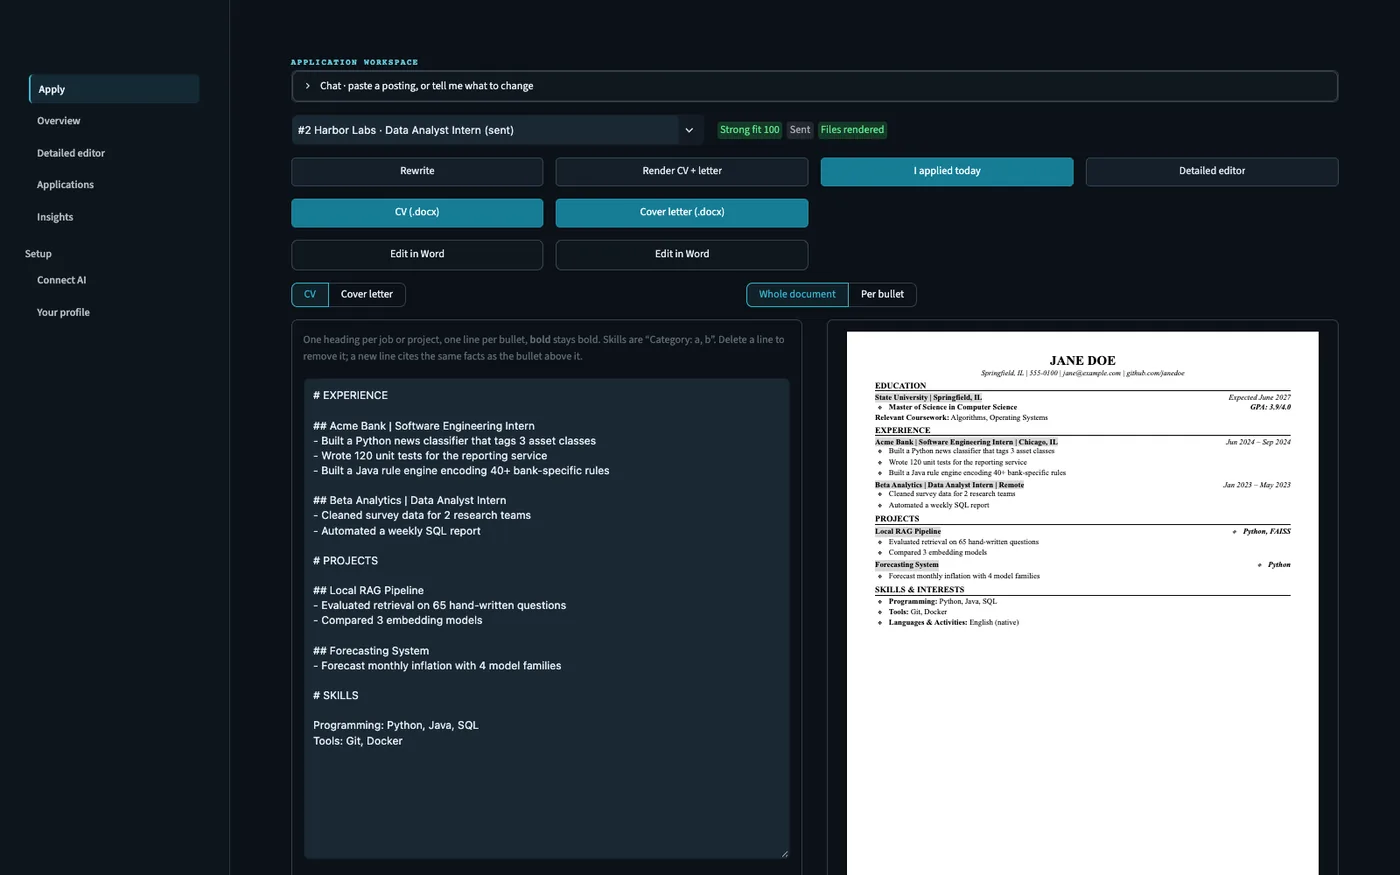
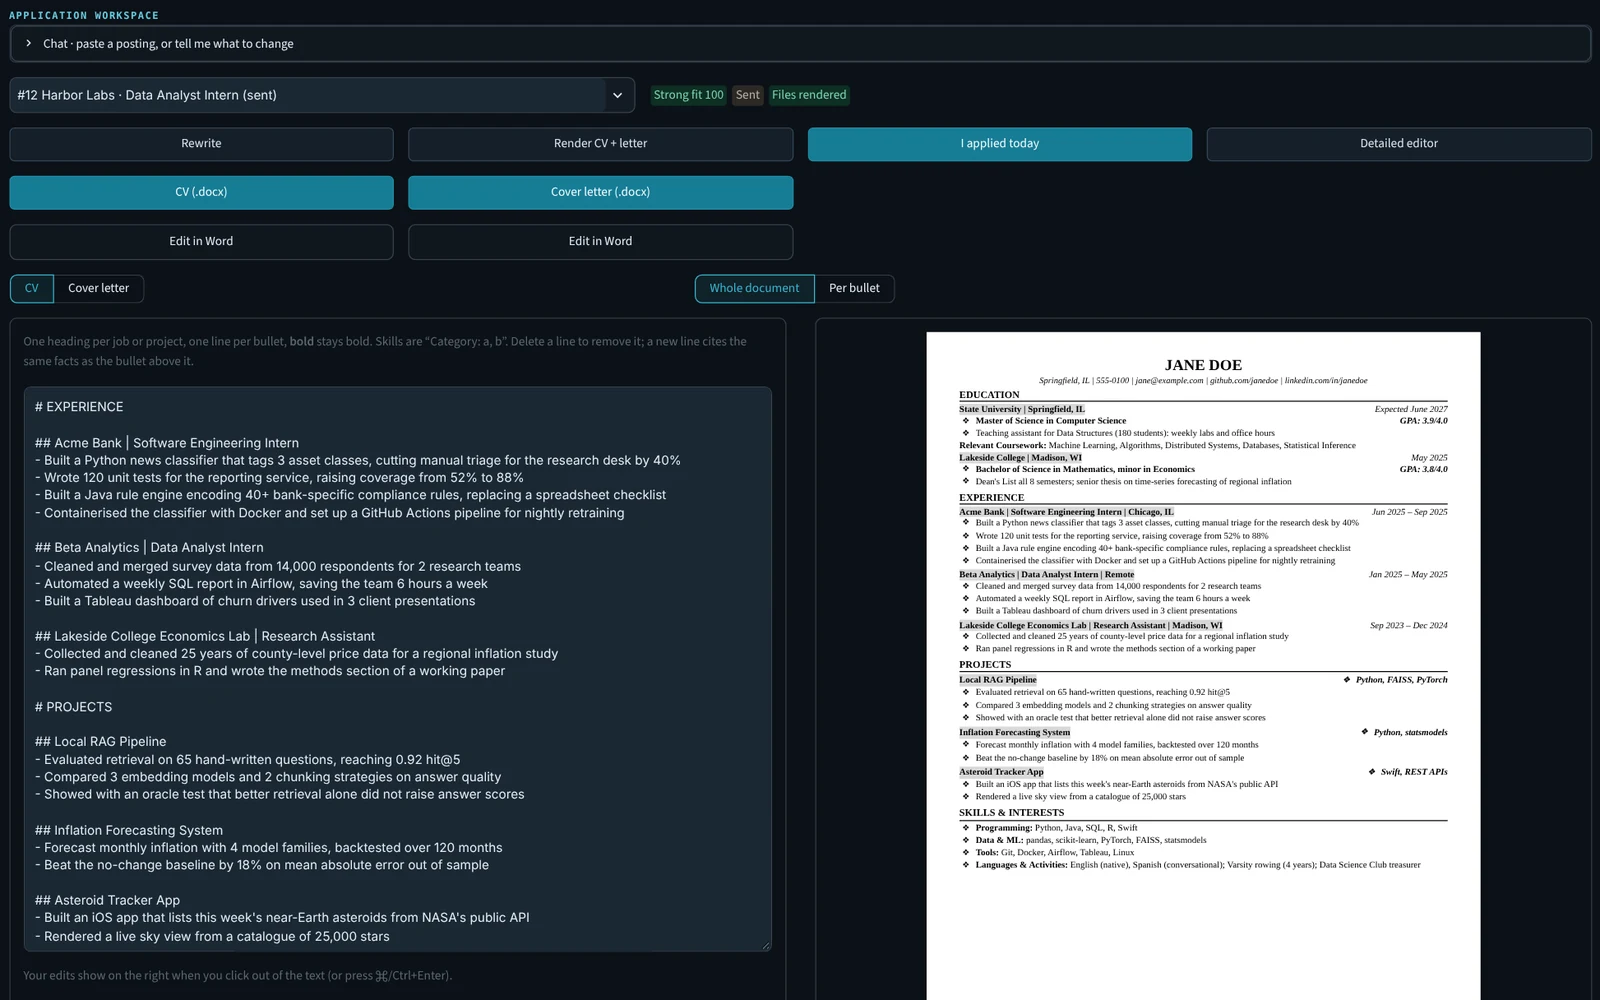
CV Drafter: fuller demo screenshots
Retake both screenshots with a complete one-page demo CV (two degrees, three
roles, three projects) and twelve demo applications, so the activity chart,
skills in demand and opportunity gaps are filled.

Claude-Session: https://claude.ai/code/session_01CHigvfmaDFMiWyAws4PvPe

diff --git a/index.html b/index.html
@@ -297,7 +297,7 @@
         </div>
         <div class="gallery gallery-2">
           <figure><img src="images/cvd-apply.webp" alt="CV Drafter Apply page: a tailored CV as editable text beside the rendered preview, with a Strong fit 100 verdict" loading="lazy"><figcaption>Apply: paste a posting, get a fit verdict and a tailored CV and letter, edited as plain text with a live preview.</figcaption></figure>
-          <figure><img src="images/cvd-overview.webp" alt="CV Drafter overview dashboard with application counts, recent applications, skills in demand and opportunity gaps" loading="lazy"><figcaption>Overview: applications and interview rate, the skills postings ask for most, and gaps worth filling.</figcaption></figure>
+          <figure><img src="images/cvd-overview.webp" alt="CV Drafter overview dashboard: 12 applications, 27% interview rate, weekly activity chart, skills in demand and opportunity gaps" loading="lazy"><figcaption>Overview: applications and interview rate, the skills postings ask for most, and gaps worth filling.</figcaption></figure>
         </div>
       </article>
 
